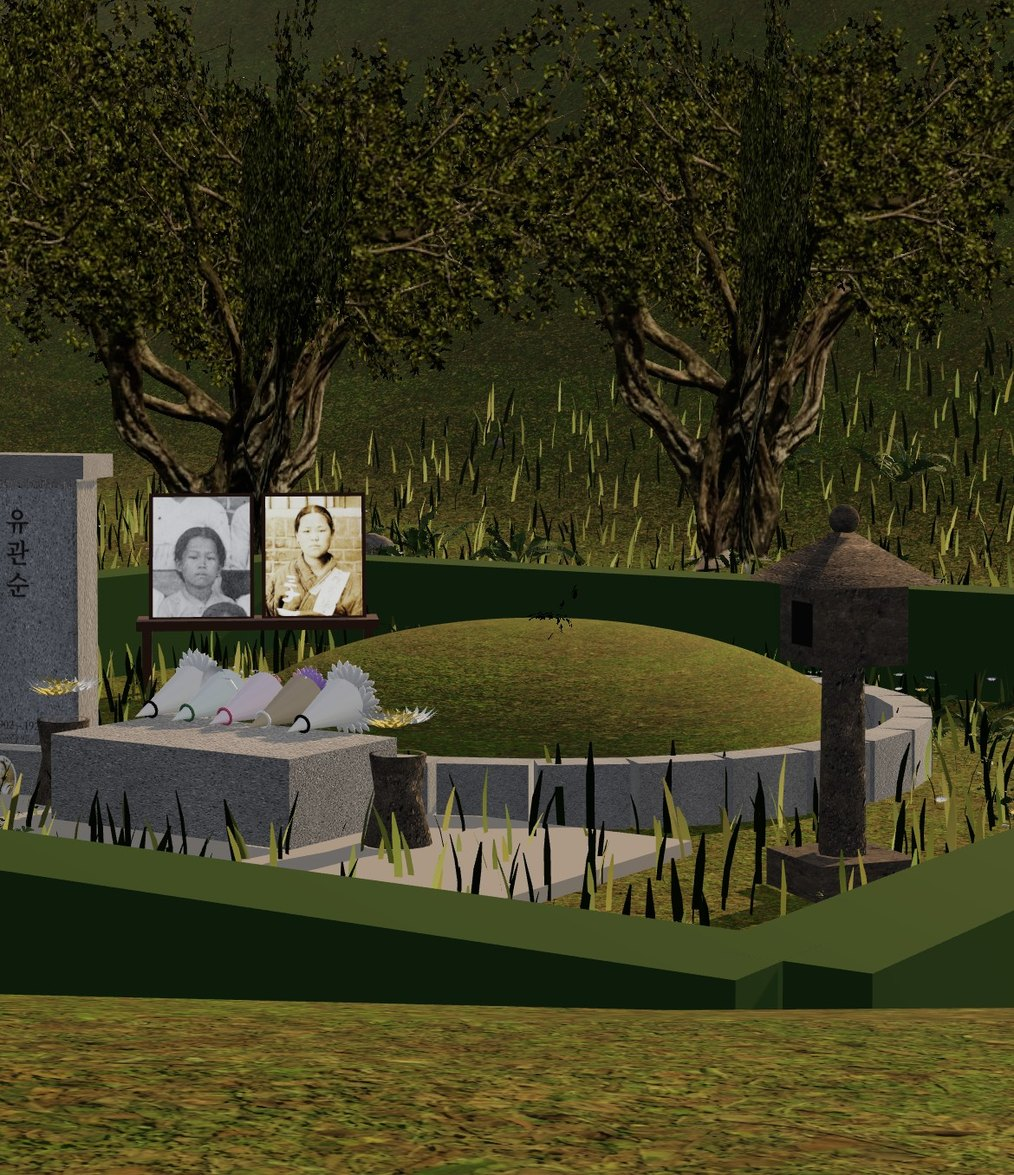
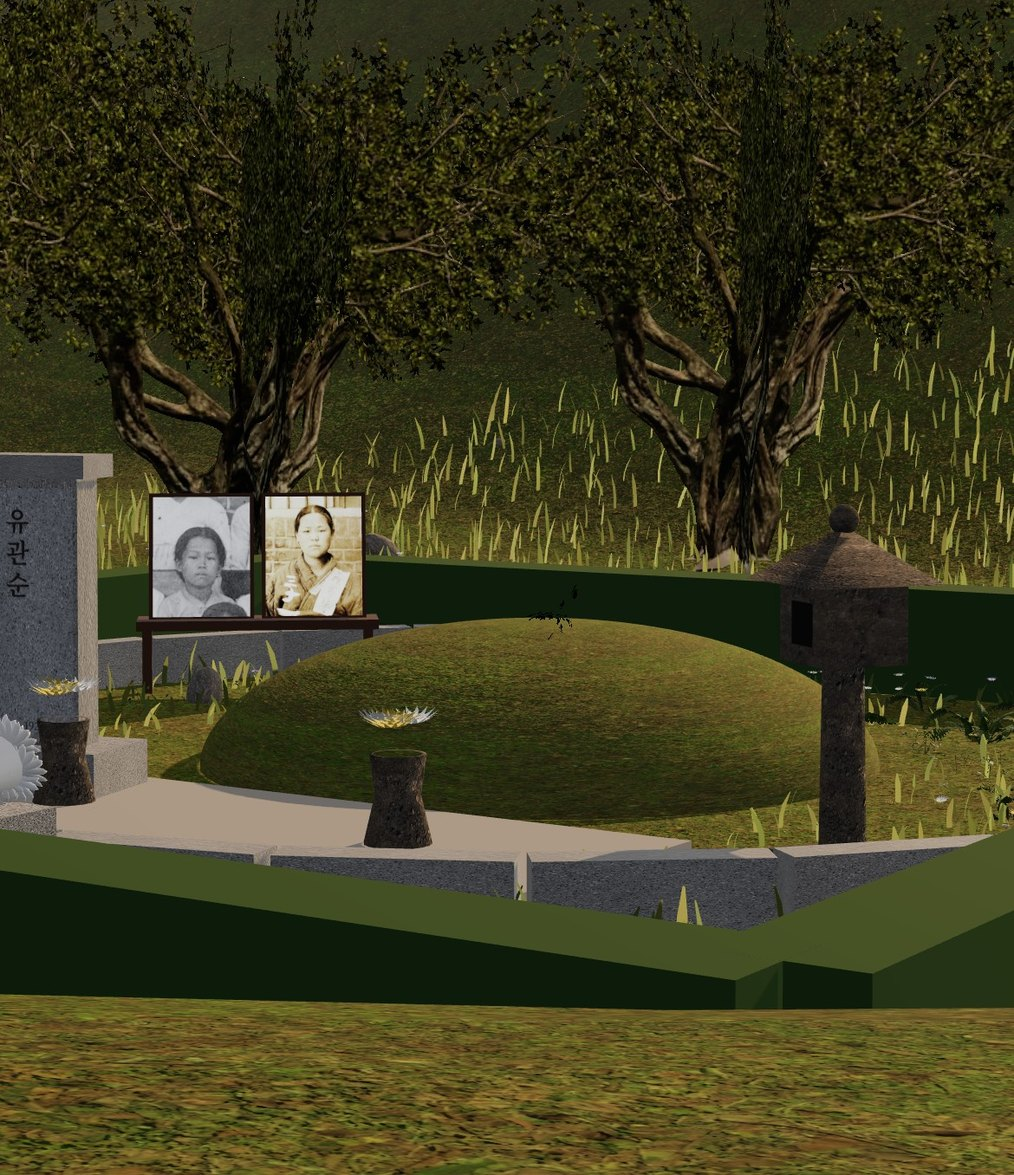
공개 추모관 장지 사진: 둘레석·꽃다발·풀 수정 반영
Claude-Session: https://claude.ai/code/session_01WvjGqiVXugAiAGwkNjewY5

diff --git a/index.html b/index.html
@@ -270,7 +270,7 @@ box.innerHTML = FIGS.map((f) => `
   <article class="fig" data-view="altar">
     <div class="shot">
       <img class="altar" src="img/fig/${f.code}-altar.jpg?v=3" alt="${f.name} 님 공개 분향소" loading="lazy" width="390" height="452">
-      <img class="grave" src="img/fig/${f.code}-grave.jpg?v=4" alt="${f.name} 님 공개 장지" loading="lazy" width="390" height="452">
+      <img class="grave" src="img/fig/${f.code}-grave.jpg?v=5" alt="${f.name} 님 공개 장지" loading="lazy" width="390" height="452">
       <div class="toggle" role="group" aria-label="${f.name} 님 화면 고르기">
         <button type="button" data-v="altar" aria-pressed="true">분향소</button>
         <button type="button" data-v="grave" aria-pressed="false">장지</button>
